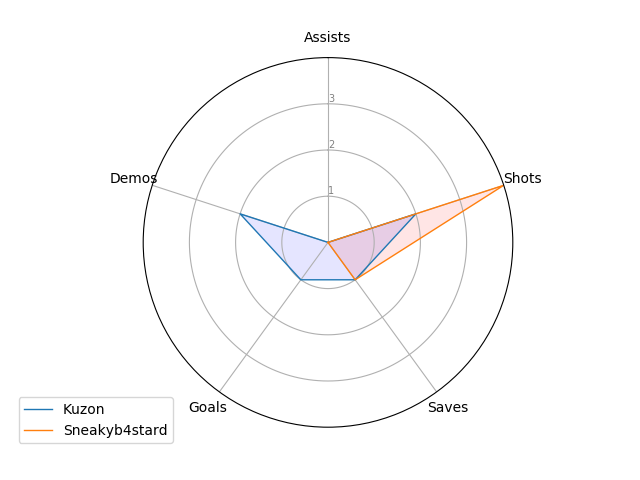
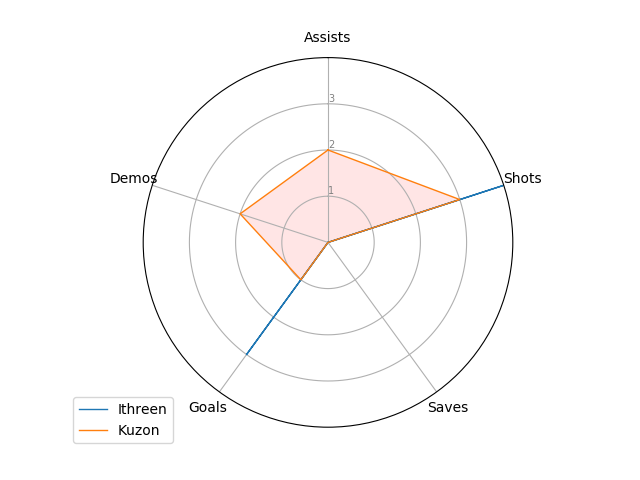
pls add a new match

Changed region(s): [[0.375, 0.3125, 0.7812, 0.625], [0.0312, 0.8438, 0.2812, 0.9062], [0.4062, 0.6562, 0.4375, 0.6875]]

diff --git a/templates/index_C.html b/templates/index_C.html
@@ -3,6 +3,9 @@
 <head lang="en">
     <meta charset="UTF-8">
     <title>My First Dashboard</title>
+
+    <script src="https://cdn.plot.ly/plotly-latest.min.js"></script>
+    <script src="https://cdnjs.cloudflare.com/ajax/libs/d3/3.5.6/d3.min.js"></script>
 </head>
 <body>
 <div class="container">
@@ -11,8 +14,7 @@
          
           
             <div class="chart" id="bargraph">
-<<<<<<< HEAD:templates/index_C.html
-
+              
               <script>
 
                   var graphs = {{plot | safe}};
@@ -23,9 +25,8 @@
           <input type="submit" name="match1" value="match1">
           <input type="submit" name="match2" value="match2">
           </form>
-=======
-                <img src={{url}} alt="Chart" height="auto" width="100%">
->>>>>>> 8868c4a1789863cd93d1c76c76d3bdc246f50baf:templates/index.html
+
+          <div class=
             </div>
         </div>
     </div>

diff --git a/templates/index_starplot.html b/templates/index_starplot.html
@@ -1,0 +1,23 @@
+<!DOCTYPE html>
+<html>
+<head lang="en">
+    <meta charset="UTF-8">
+    <title>My First Dashboard</title>
+</head>
+<body>
+<div class="container">
+    <div class="row">
+        <div class="col-md-6">
+         
+          
+            <div class="chart" id="bargraph">
+
+ 
+                <img src={{url}} alt="Chart" height="auto" width="100%">
+            </div>
+        </div>
+    </div>
+</div>
+
+</body>
+</html>

diff --git a/templates/index.html b/templates/index.html
@@ -14,7 +14,7 @@
          
           
             <div class="chart" id="bargraph">
-
+              
               <script>
 
                   var graphs = {{plot | safe}};
@@ -25,6 +25,8 @@
           <input type="submit" name="match1" value="match1">
           <input type="submit" name="match2" value="match2">
           </form>
+
+          <div class=
             </div>
         </div>
     </div>

diff --git a/app.py b/app.py
@@ -3,6 +3,9 @@ import random
 import pandas as pd
 import numpy as np
 import json
+import plotly
+import plotly.graph_objs as go
+
 
 from flask import Flask, render_template, Response
 from flask import request
@@ -16,7 +19,7 @@ from matplotlib import pyplot as plt
 from math import pi
 
 app = Flask(__name__)
-df_csv = pd.read_csv('./matches_csv/testmatch2.csv', sep=';') # creating a sample dataframe
+df_csv = pd.read_csv('./matches_csv/testmatch1.csv', sep=';') # creating a sample dataframe
 df_csv['assists']
 df = pd.DataFrame({
 'group': ['A', 'B', 'C', 'D', 'E', 'F'],
@@ -75,7 +78,7 @@ def indexstar():
     # Add legend
     plt.legend(loc='upper right', bbox_to_anchor=(0.1, 0.1))
     plt.savefig('static/images/plot.png')
-    return render_template('index.html', url='/static/images/plot.png')
+    return render_template('index_starplot.html', url='/static/images/plot.png')
 
 
 
@@ -110,7 +113,7 @@ def create_plot():
         ]
         graphJSON = json.dumps(data, cls=plotly.utils.PlotlyJSONEncoder)   
         
-        return render_template('index.html', plot=graphJSON)
+        return render_template('index_C.html', plot=graphJSON)
         #return graphJSON 
     elif "match2" in request.form:
         data = [
@@ -120,7 +123,7 @@ def create_plot():
         )
         ]
         graphJSON = json.dumps(data, cls=plotly.utils.PlotlyJSONEncoder)   
-        return render_template('index.html', plot=graphJSON)
+        return render_template('index_C.html', plot=graphJSON)
         #return graphJSON
     else:
         data = [
@@ -130,7 +133,7 @@ def create_plot():
         )
         ]
         graphJSON = json.dumps(data, cls=plotly.utils.PlotlyJSONEncoder)   
-        return render_template('index.html', plot=graphJSON)
+        return render_template('index_C.html', plot=graphJSON)
         #return graphJSON
 
     #graphJSON = json.dumps(data, cls=plotly.utils.PlotlyJSONEncoder)

diff --git a/app_C.py b/app_C.py
@@ -51,7 +51,7 @@ def create_plot():
         ]
         graphJSON = json.dumps(data, cls=plotly.utils.PlotlyJSONEncoder)   
         
-        return render_template('index.html', plot=graphJSON)
+        return render_template('index_C.html', plot=graphJSON)
         #return graphJSON 
     elif "match2" in request.form:
         data = [
@@ -61,7 +61,7 @@ def create_plot():
         )
         ]
         graphJSON = json.dumps(data, cls=plotly.utils.PlotlyJSONEncoder)   
-        return render_template('index.html', plot=graphJSON)
+        return render_template('index_C.html', plot=graphJSON)
         #return graphJSON
     else:
         data = [
@@ -71,7 +71,7 @@ def create_plot():
         )
         ]
         graphJSON = json.dumps(data, cls=plotly.utils.PlotlyJSONEncoder)   
-        return render_template('index.html', plot=graphJSON)
+        return render_template('index_C.html', plot=graphJSON)
         #return graphJSON
 
     #graphJSON = json.dumps(data, cls=plotly.utils.PlotlyJSONEncoder)
